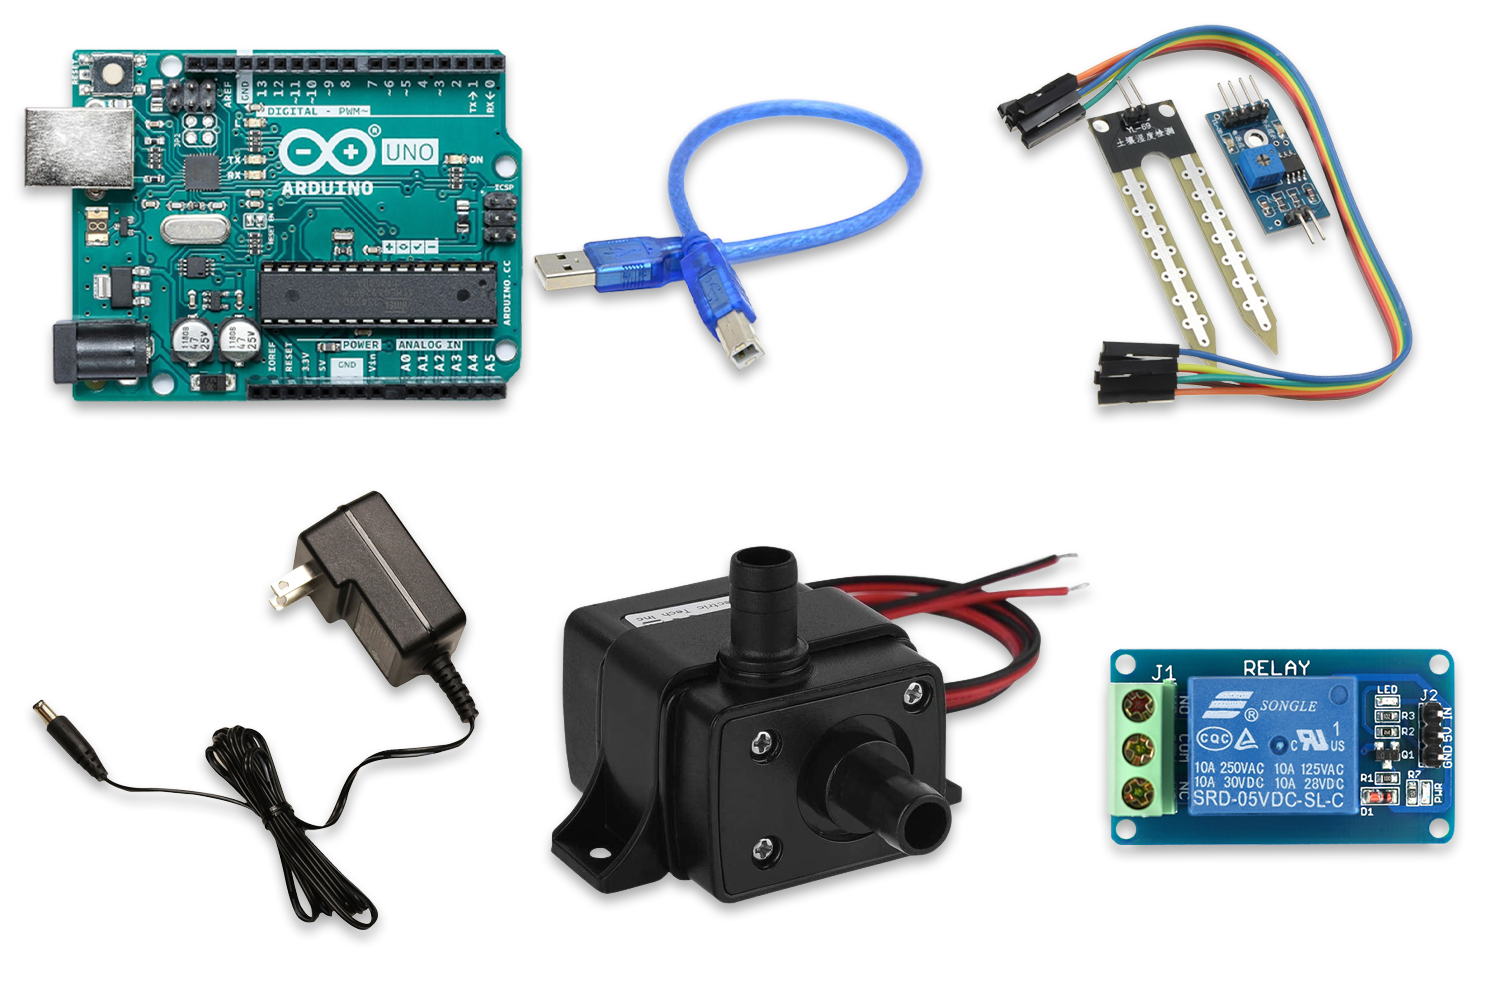
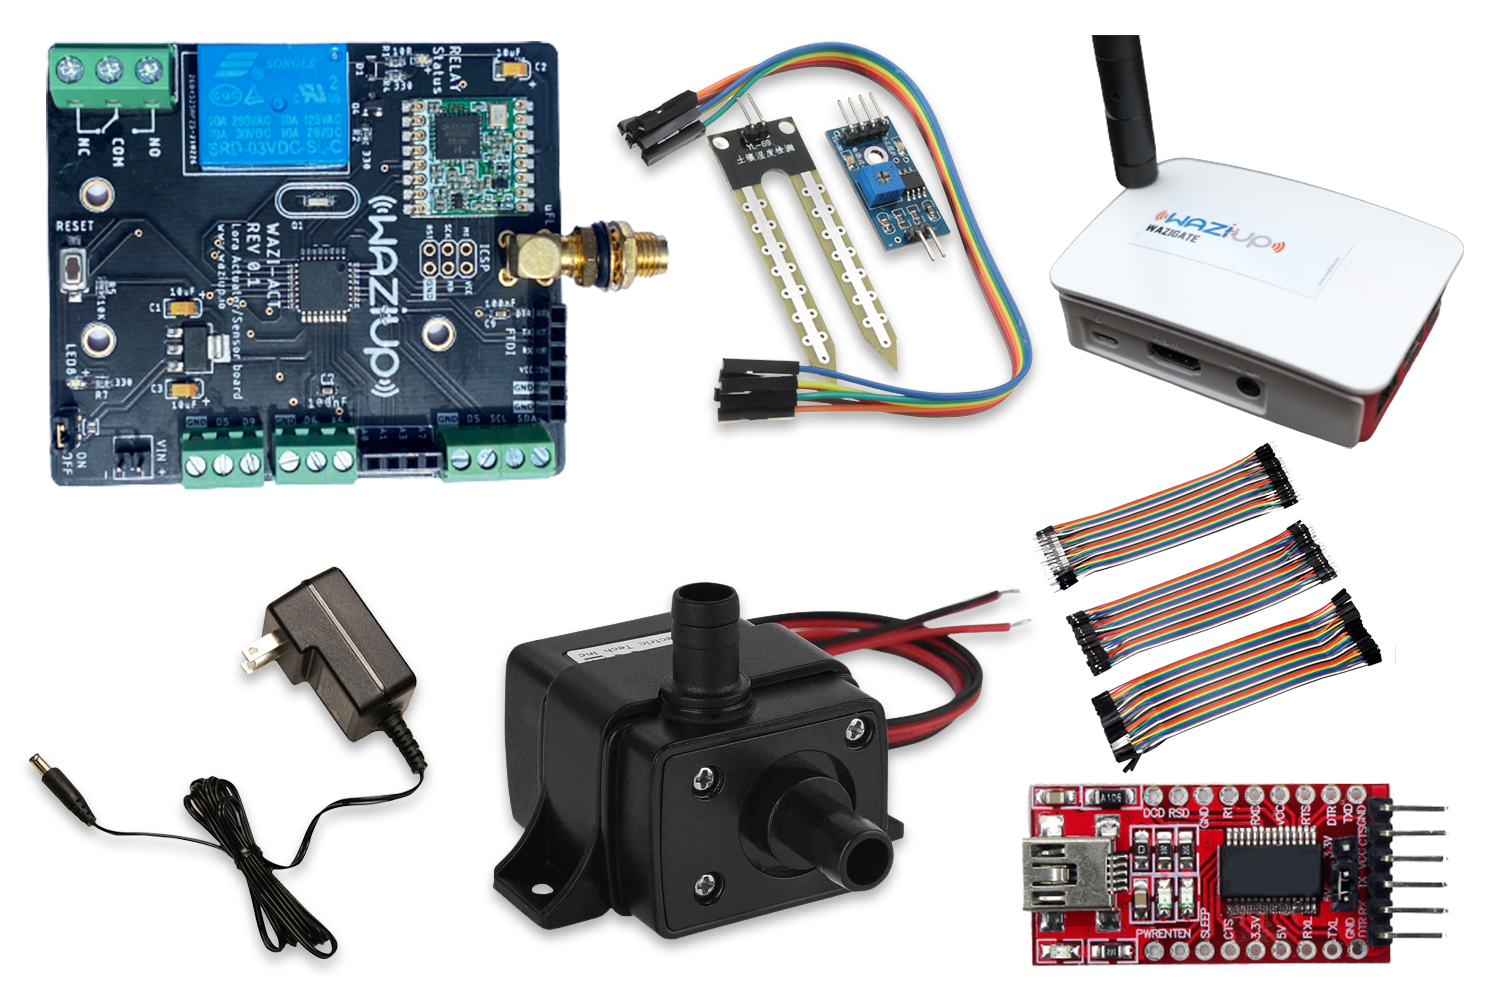
auto irrigation

diff --git a/content/en/solutions/automatic_irrigation/guide.md b/content/en/solutions/automatic_irrigation/guide.md
@@ -22,14 +22,13 @@ To follow this user manual, one will need the following hardware:
 Hardware
   - WaziACT
   - FT232 FTDI module with Mini USB Cable
+  - Wazigate
   - Soil Moisture Sensor
   - Submersible Water Pump
   - Some Jumper Wires
   - Power Supply
 
 ![Parts One](./media/parts_one.png)
-![Some Jumper Wires](./media/jumper.png)
-
 
 Software
   - Please install the [Arduino IDE](https://www.arduino.cc/en/Main/Software) for the programming aspects.
@@ -43,9 +42,9 @@ just insert it into the soil and then read it.
 
 Schematics
 ----------
-There are only three pins that you need to worry about on most of these analog soil humidity sensors. The common principle is to power the sensor and get the output voltage on an analog pin. In our case, we are going to use pin A0.
+There are only three pins that you need to worry about on most of these analog soil humidity sensors. The common principle is to power the sensor and get the output voltage on an analog pin. In our case, we are going to use pin A6.
 
-![Sensor Wiring](./media/moisture_wire.png)
+![Sensor Wiring](./media/waziACT_soil.jpg)
 
 Module interface:
 1. VCC: Connect to the 5v pole of the Arduino
